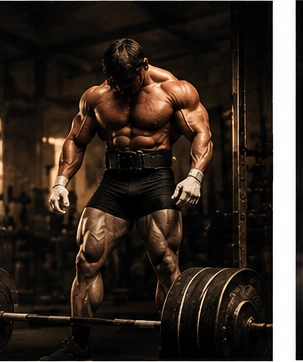
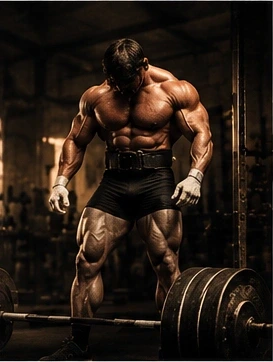
fixed tips images uneven alignment to the card

diff --git a/screens/TipsScreen.tsx b/screens/TipsScreen.tsx
@@ -9,6 +9,8 @@ import { useThemeMode } from '../hooks/useThemeMode';
 import { useTabBarClearance } from '../hooks/useTabBarClearance';
 import { GYM_TIPS } from '../data/gymTips';
 
+const ZOOMED_TIP_IDS = new Set(['progressive-overload', 'warm-up', 'mind-muscle', 'rest-periods', 'consistency']);
+
 export default function TipsScreen() {
   const { colors } = useThemeMode();
   const styles = useMemo(() => makeStyles(colors), [colors]);
@@ -31,7 +33,12 @@ export default function TipsScreen() {
         {GYM_TIPS.map((tip, i) => (
           <View key={tip.id} style={styles.card}>
             <View style={styles.imageWrap}>
-              <Image source={tip.image} style={StyleSheet.absoluteFill} contentFit="cover" contentPosition="top center" />
+              <Image
+                source={tip.image}
+                style={[StyleSheet.absoluteFill, ZOOMED_TIP_IDS.has(tip.id) && styles.imageZoom]}
+                contentFit="cover"
+                contentPosition="top center"
+              />
               <LinearGradient
                 colors={['transparent', 'rgba(19,19,19,0.35)', 'rgba(19,19,19,0.9)']}
                 style={StyleSheet.absoluteFill}
@@ -81,7 +88,16 @@ const makeStyles = (colors: ReturnType<typeof useThemeMode>['colors']) =>
       borderRadius: radius.md,
       overflow: 'hidden',
     },
-    imageWrap: { width: '100%', aspectRatio: 16 / 10, justifyContent: 'flex-end' },
+    imageWrap: {
+      width: '100%',
+      aspectRatio: 16 / 10,
+      justifyContent: 'flex-end',
+      overflow: 'hidden',
+      borderTopLeftRadius: radius.md,
+      borderTopRightRadius: radius.md,
+      backgroundColor: colors.surfaceContainerLow,
+    },
+    imageZoom: { transform: [{ scale: 1.22 }] },
     imageOverlay: {
       flexDirection: 'row',
       alignItems: 'flex-end',
